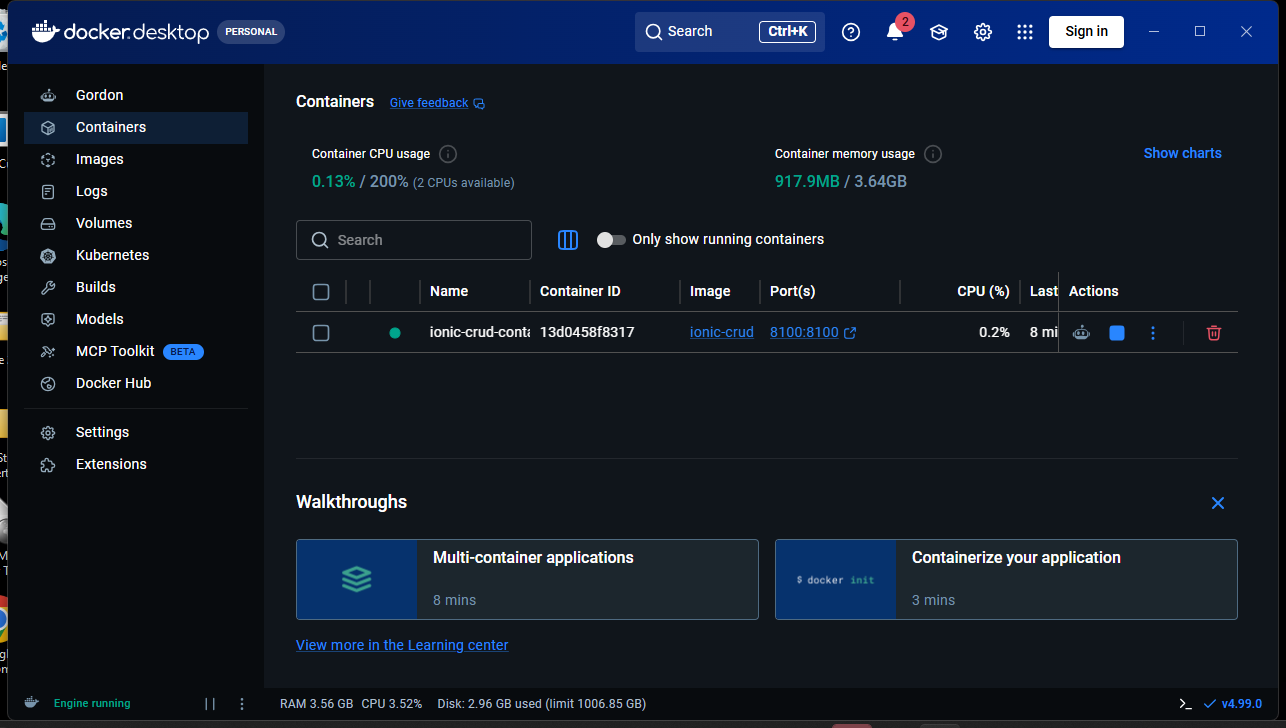
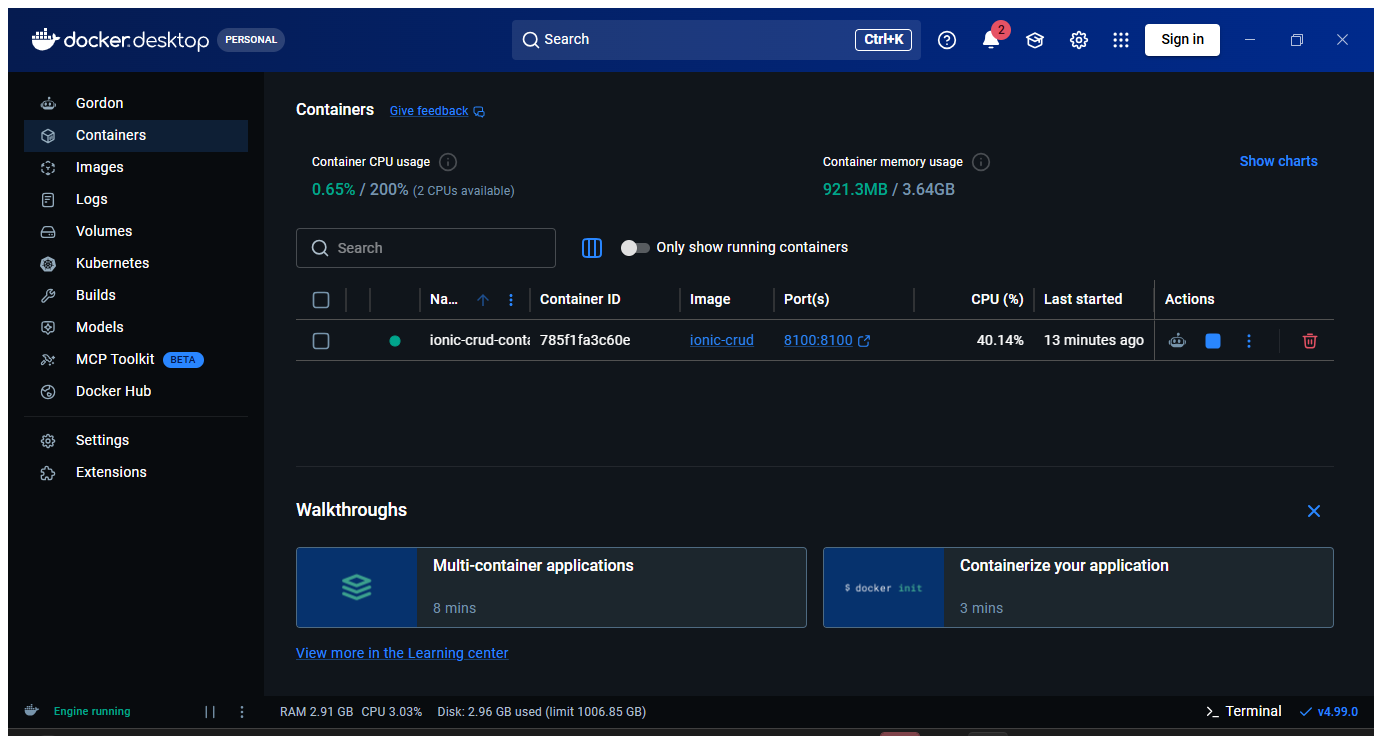
docs: refresh Docker Desktop evidence for CD container [skip ci]

diff --git a/docs/SUBMISSION-CHECKLIST.md b/docs/SUBMISSION-CHECKLIST.md
@@ -17,6 +17,8 @@
 - [x] Docker Desktop 4.99.0 + WSL2 active; image `ionic-crud:latest` built,
       container `ionic-crud-container` healthy, browser CRUD smoke test passed.
       Details: `docs/LAB6-DOCKER-EVIDENCE.md`.
+- [x] Docker Desktop **Containers** view screenshot
+      (`docs/screenshots/10-docker-containers.png`).
 - [x] GitHub Actions CI/CD workflow with Windows hosted CI and self-hosted CD.
 - [x] Firestore database `(default)` created in `serverlena`
       (Firestore Native, `asia-southeast1`) and `firestore.rules` deployed.
@@ -36,12 +38,9 @@
 
 ## Remaining manual items
 
-- [ ] **Docker Desktop screenshot** (only if the instructor requires a GUI
-      screenshot): open Docker Desktop's **Containers** view and capture the
-      screen listed in `docs/DOCKER-RUNBOOK.md`. The runtime itself is verified.
-- [ ] **Lab sheet answers** — Docker values are in
-      `docs/LAB6-DOCKER-EVIDENCE.md`; workflow run URLs and the runner name are in
-      `docs/LAB-REPORT.md` → CI/CD.
+- [ ] **Lab sheet answers** — copy the Docker values from
+      `docs/LAB6-DOCKER-EVIDENCE.md` and the workflow run URL / runner name from
+      `docs/LAB-REPORT.md` → CI/CD into the lab sheet.
 
 ## Key commits on `main`
 
